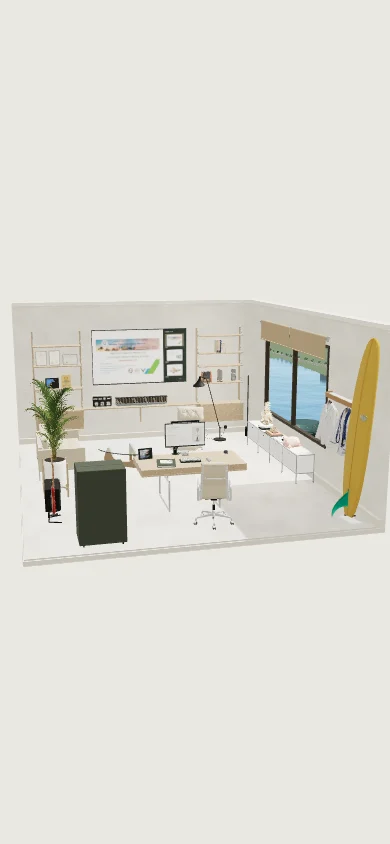
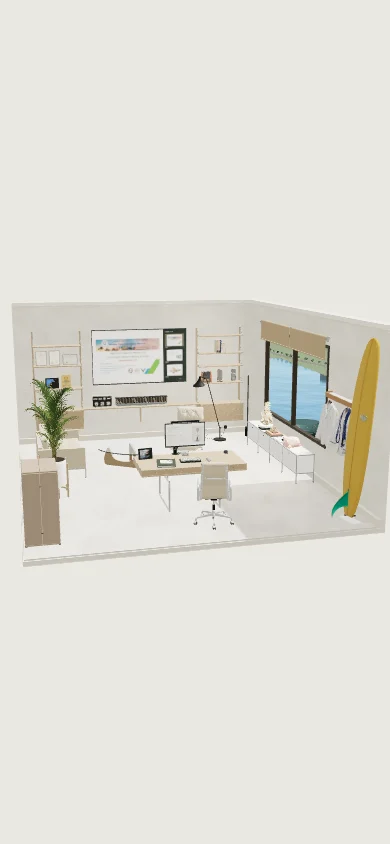
Refresh office entry images and record the checkpoint

Changed region(s): [[0.1846, 0.5237, 0.3385, 0.6469], [0.0308, 0.5237, 0.1538, 0.6469], [0.7077, 0.4005, 0.7385, 0.4313]]

diff --git a/SESSION_HANDOFF.md b/SESSION_HANDOFF.md
@@ -1,5 +1,25 @@
 # Office session handoff — 2026-09-09
 
+## Intermediate checkpoint requested
+
+The owner requested a status report and commit/push/deploy of the cabinet, focused screen readers, river landscape/adjacent bridges, and refreshed entry images. Release evidence is `.omo/evidence/office-checkpoint-2026-09-09/release.json`; that receipt determines the deployed SHA and supersedes older local-only status below once deployment is verified. Individual bridge silhouette corrections remain deferred, as do administrator-persisted arrangements and 2024-or-earlier presentation imports.
+
+## Barware refinement after cabinet approval
+
+Current barware is a 215mm-tall Usagi 800mL-inspired shaker, six Glencairn tasting glasses and two Riedel-style coupes. After the owner rejected spread-out display placement, all eight glasses now share the fixed upper compartment in a compact two-row arrangement. The opening half has a single 720mm shelf, with the existing seven bottles split three above/four below; mirrored hinge transforms are canceled for bottle labels. Fixed counter retains the shaker/mixing glass/jigger/spoon tray; fixed lower bay is reserved for future additions. Taupe finish and accepted 90-degree corner placement remain unchanged. TypeScript/build and five cabinet geometry tests pass. Ten fresh browser checks cover shapes, dense glass spacing, bottle transforms, opening/closing and zero browser errors. Root personally inspected the day/night screenshots in .omo/evidence/isidoro-glencairn-2026-09-09/. This pass is local only.
+
+The read-only bridge silhouette audit is complete: .omo/evidence/river-bridges-2026-09-09/silhouette-audit.md. Actual geography is sourced, but Dongjak arches are too large/few, Dongho needs central peaked railway trusses instead of outer straight-top trusses, and Hannam lacks paired deck/support silhouettes. These shape corrections have NOT been implemented; do not claim exact bridge fidelity.
+
+## Current local correction pass
+
+The user accepted the new Isidoro L-shaped placement. Current local source uses center [2.50, 0.0185, -2.66], rotation PI/2, closes against the guitar-side wall facing the desk, and opens a mirrored leaf only 90 degrees along the desk-back wall. The worktop moves sequentially. Guitar/amp center is [2.47, 0.0185, -1.48]. Lower bottle bays stay exposed. The rejected olive exterior is now warm taupe #A69583 with CC0 leather grain and fine seams; new hollow glasses, copitas, shaker, jigger and spoon are true geometry. Cabinet six browser checks and five geometry tests passed; final-open.png was personally inspected.
+
+TV/monitor clicks now open a large fixed frontal reader. In-screen slide arrows change pages within the same event. TV keeps a main slide with a narrow right filmstrip; all arrows fit in the viewport. Monitor CV uses native selectable text and a high-resolution portrait. Original source PDFs produced 304 on-demand 3840px derivatives; four previously audited/redacted pages retain their approved 1920px versions. No source PDFs are public. Importer preserves protected derivatives and refuses a changed protected source until reviewed. Final root browser run passed 10 desktop/Retina/mobile checks, including actual 3D screen clicks and HD requests.
+
+Han River local work adds actual OpenStreetMap footprints/three-dimensional facade details, CC0 instanced near-bank trees, muted green ground with road/forecourt coverage, and three real adjacent bridges: Dongjak, Hannam and Dongho. Google Maps satellite views were inspected; OSM axes and official Seoul references are recorded in public/models/han-river/bridges.json. Geometry stays in the existing Banpo geographic frame and preserves the default observer/bridge composition. Added vehicle lanes avoid central rail beds and night lighting resets during daylight. This remains an optimized geographic scene, not a photoreal city model; distant buildings and terrain are still coarse.
+
+Evidence: .omo/evidence/isidoro-corner-2026-09-09/, focused-screens-2026-09-09/, river-quality-2026-09-09/ and river-bridges-2026-09-09/. Port 4322 serves built dist. Previous deployed SHA is 6f95cc3105ada5e5d42f88518bab9239a2cfcfa2, Cloudflare 25428139-59fa-4ed4-974b-85aa948c8634; receipt is .omo/evidence/isidoro-inward-2026-09-09/release.json. The current corrections are local and not part of that older release.
+
 ## Latest continuation · Office media and loading
 
 The current finishing batch includes seven photographed personal books with pull/open/return interaction, two physical electronic-frame inspectors, the connected research folio and shifting paper stacks, the corrected IJSS preview, warm mineral walls/floor, USM underside lighting, selected-screen brightness, actual-office sharing/loading images, lossless model compression and a committed-lifecycle Banpo loader. Connect includes the existing public email. A Cloudflare D1 footer visit counter counts one browser-tab session; local Astro preview intentionally hides it because it does not run Pages Functions.
